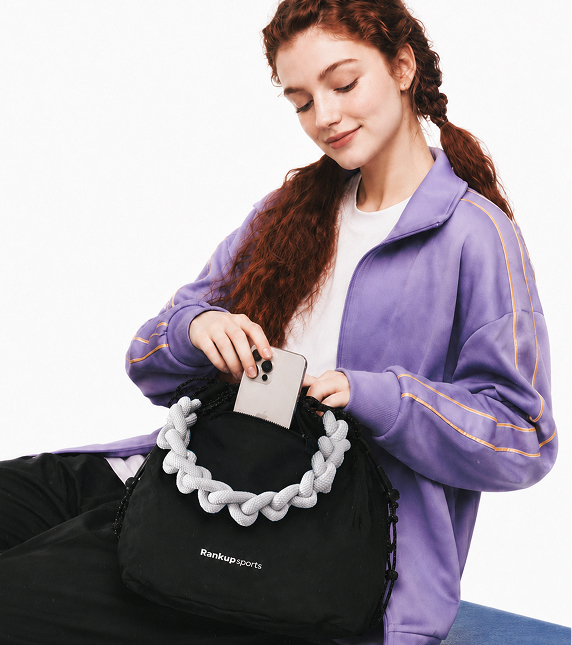
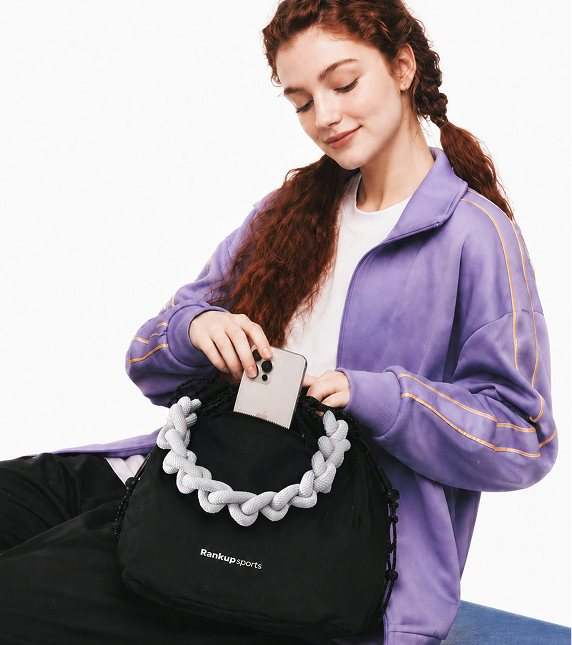
Fit the markup to the re-uploaded block03 chat photos
アップされ直した chat-02 / chat-03 が縦位置の高解像度版に変わっていたので、
width/height 属性を実ファイルに合わせる（この属性でロード前の枠を確保して
いるため、ずれると読み込み時にレイアウトが跳ねる）。
  chat-02  572x645 -> 572x659
  chat-03  735x570 -> 572x645（横位置から縦位置に変わっていた）
他の4枚と同じ基準（品質84）で再エンコード。中身と解像度はそのまま。
  chat-02  395,890 -> 62,098 bytes
  chat-03  382,630 -> 55,842 bytes

実測（PC・カラム660px）: 370x435 / 370x426 / 370x417 いずれも 56.1%
6枚すべて属性と実ファイルの寸法が一致。横スクロールの発生なし。

diff --git a/index.html b/index.html
@@ -8,7 +8,7 @@
 <link rel="preconnect" href="https://fonts.googleapis.com" />
 <link rel="preconnect" href="https://fonts.gstatic.com" crossorigin />
 <link href="https://fonts.googleapis.com/css2?family=Archivo+Black&family=Big+Shoulders:wght@600;800&family=Bowlby+One+SC&family=Caprasimo&family=Dancing+Script:wght@600;700&family=Golos+Text:wght@400;500;700;900&family=DotGothic16&family=Jacquarda+Bastarda+9&family=Permanent+Marker&family=Roboto:wght@300;400;500;700;900&family=Zen+Maru+Gothic:wght@400;500;700&family=League+Spartan:wght@500;700&family=M+PLUS+1p:wght@400;500;700&family=Space+Grotesk:wght@500;700&family=Bowlby+One&family=Zen+Kaku+Gothic+New:wght@400;500;700&family=Montserrat:wght@400;500;700&family=Noto+Sans+JP:wght@400;500;700&family=Libre+Bodoni:wght@700&family=Cormorant+Garamond:ital,wght@1,600&family=Geist+Pixel&family=Jersey+10&family=Jersey+20&family=Encode+Sans+Condensed:wght@700&display=swap" rel="stylesheet" />
-<link rel="stylesheet" href="styles.css?v=128" />
+<link rel="stylesheet" href="styles.css?v=129" />
 </head>
 <body>
 
@@ -179,11 +179,11 @@
       <p class="bub bub--r bub--nowrap" style="--d:.48s">お気に入りのストラップロープを付けたり、<br />カラビナでリュックにぶら下げたり</p>
       <img class="bubPh" src="assets/block03/chat-02.webp"
            alt="ブルーとピンクのロープを付けた Drawstring Ball Bag を2つ持って"
-           width="572" height="645" style="--d:.64s" loading="lazy" />
+           width="572" height="659" style="--d:.64s" loading="lazy" />
       <p class="bub bub--l bub--nowrap" style="--d:.8s">自分らしくアレンジできるのもポイント！</p>
       <img class="bubPh bubPh--r" src="assets/block03/chat-03.jpg"
            alt="Drawstring Ball Bag の前ポケットにスマホを入れるところ"
-           width="735" height="570" style="--d:.96s" loading="lazy" />
+           width="572" height="645" style="--d:.96s" loading="lazy" />
       <p class="bub bub--r bub--nowrap" style="--d:1.12s">前ポケットにはスマホや小物を入れて、<br />必要なものはサッと取り出せる♪</p>
       <p class="bub bub--l bub--nowrap" style="--d:1.28s">練習も試合も、お気に入りのボールと一緒に出かけよう!</p>
     </div>
